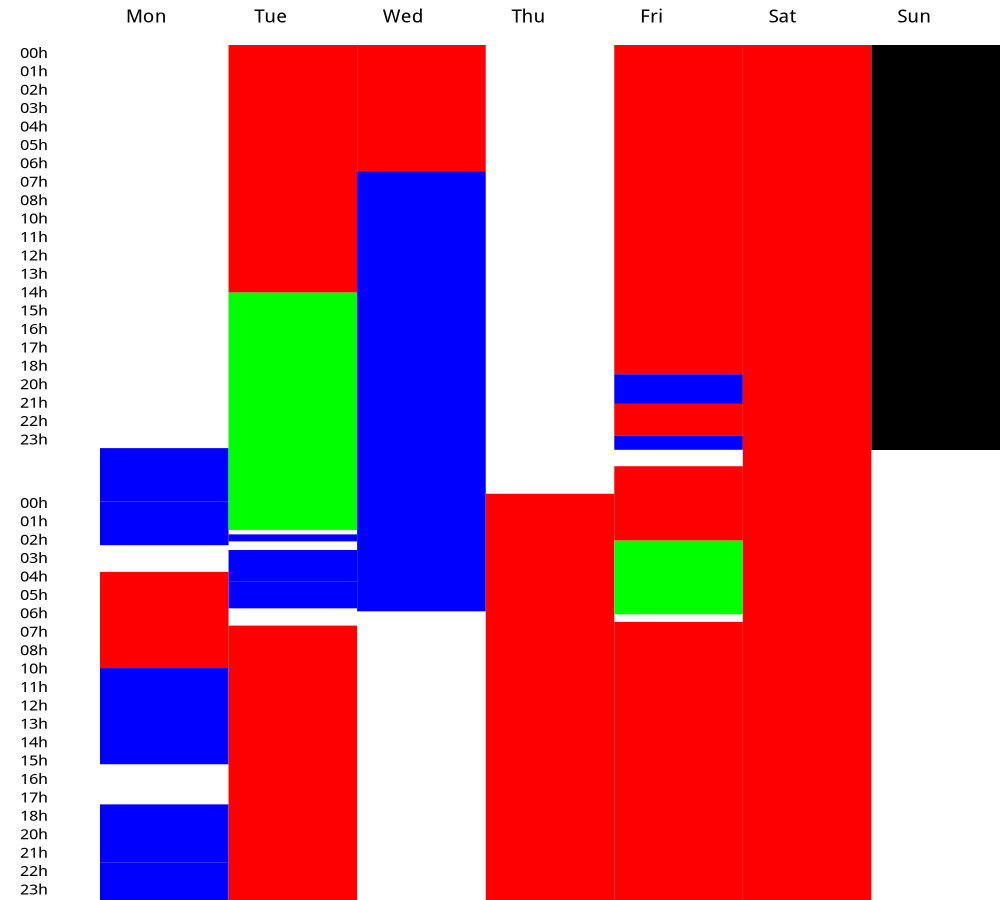
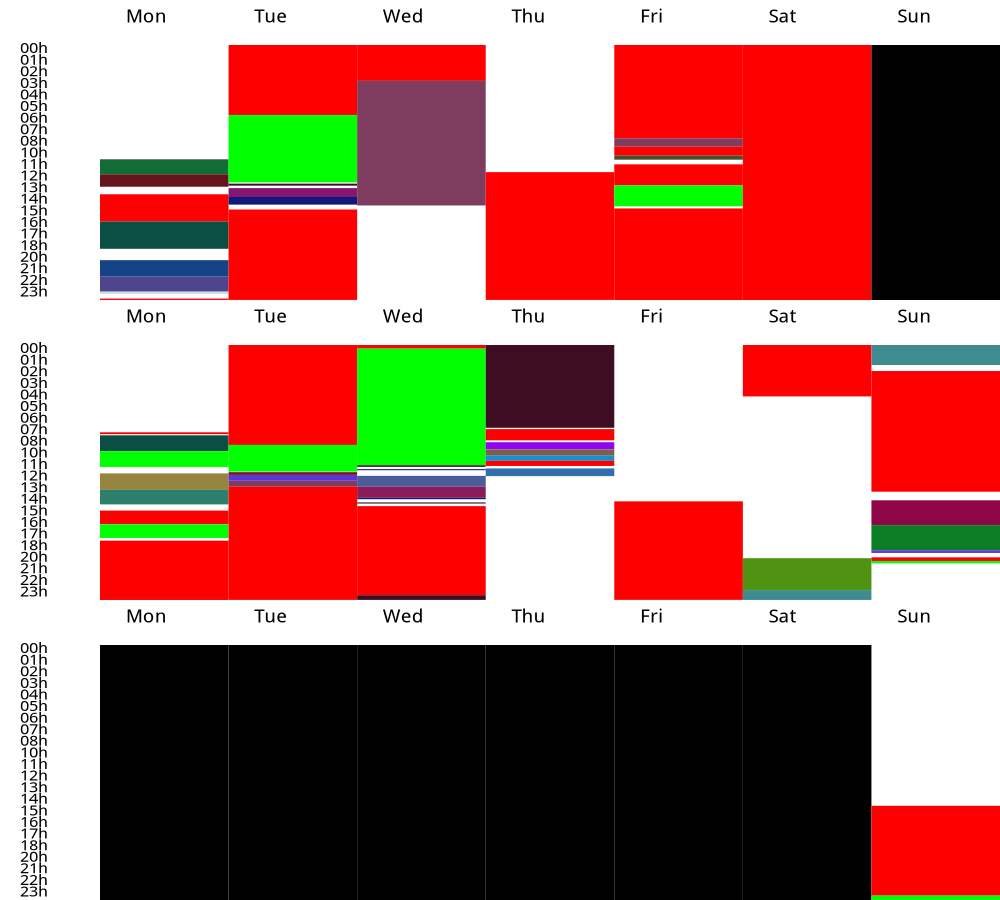
generated data

diff --git a/timetable2/Timetable.py b/timetable2/Timetable.py
@@ -1,3 +1,5 @@
+import random
+
 import timetable2.tools
 import cairo
 from datetime import datetime, date
@@ -13,13 +15,19 @@ class Label:
 
 
 class Meeting:
-    def __init__(self, date_begin: datetime, date_end: datetime, labels=None, title=""):
+    locations_id = {}
+
+    def __init__(self, date_begin: datetime, date_end: datetime, labels=None, title="", loc_id = ""):
         if labels is None:
             labels = []
+        if loc_id not in Meeting.locations_id.keys():
+            Meeting.locations_id[loc_id] = (random.random() * 0.6, random.random() * 0.6, random.random())
+
         self.labels = labels
         self.date_begin = date_begin
         self.date_end = date_end
         self.title = title
+        self.loc_id = loc_id
 
     def __str__(self):
         tostr = "("
@@ -82,8 +90,10 @@ class Timetable:
     # TODO : Add meeting label, title, etc..
     def display_meeting(self, meeting, ctx, x, y, w, h, dp_label=False):
 
-
-        pat = cairo.SolidPattern(*meeting.labels[0].color)
+        if meeting.labels[0].name == "Other":
+            pat = cairo.SolidPattern(*Meeting.locations_id[meeting.loc_id])
+        else:
+            pat = cairo.SolidPattern(*meeting.labels[0].color)
         ctx.rectangle(x, y, w, h)
         ctx.set_source(pat)
         ctx.fill()

diff --git a/main.py b/main.py
@@ -14,7 +14,7 @@ DATE_END_KEY = 'fin_H'
 labels = {'Home': Label('Home', RED), 'Second': Label('Second', GREEN), 'Other': Label('Other', BLUE)}
 
 SELECTED_DEVICES = ['Device 64']
-SELECT_ALL = False
+SELECT_ALL = True
 SELECTED_DATE_FROM = date(2018, 1, 22)
 SELECTED_DATE_TO = date(2018, 1, 30)
 SELECT_ALL_DATE = True
@@ -46,7 +46,7 @@ else:
             date_begin = datetime.datetime.strptime(date_begin_unparsed, DATE_FORMAT)
             date_end = datetime.datetime.strptime(date_end_unparsed, DATE_FORMAT)
 
-            meeting = Meeting(date_begin, date_end, labels=[labels[raw['motif']]])
+            meeting = Meeting(date_begin, date_end, labels=[labels[raw['motif']]], loc_id=raw['ID_sejour_1km'])
             timetables[device].add_meeting(meeting)
 
     for device in timetables.keys():
